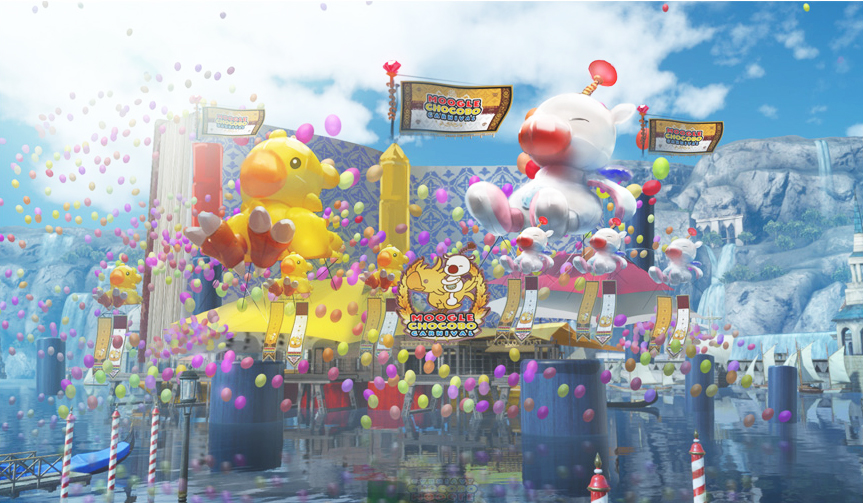
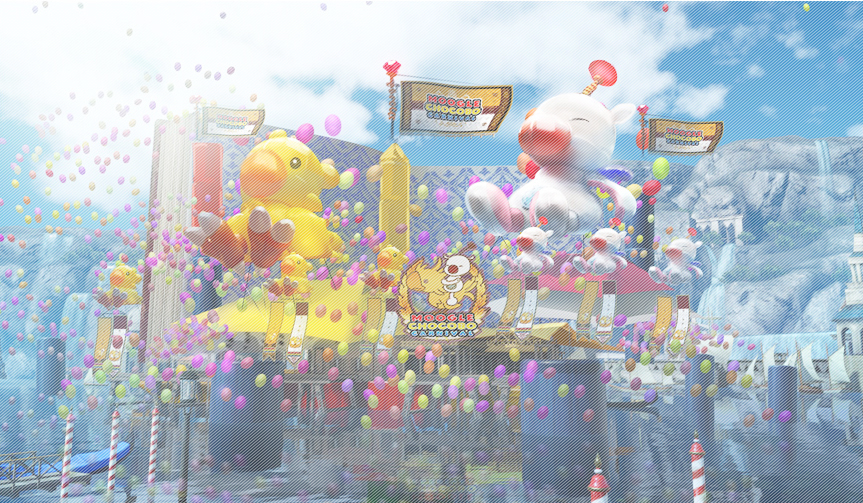
change bg

diff --git a/css/style.css b/css/style.css
@@ -6,7 +6,7 @@ body {
   background-image: url("https://edithhsu.github.io/home/Images/img_carnival.jpg");
   background-size: cover;
   background-repeat: no-repeat;
-  color: #ff6800; }
+  color: #1d86ff; }
 
 h1, h2, h3, h4, h5, h6, .h1, .h2, .h3, .h4, .h5, .h6 {
   font-weight: bold; }
@@ -24,7 +24,7 @@ nav.navbar.navbar-default.navbar-fixed-top.navbar-top {
     -o-transition: 0.5s;
     transition: 0.5s; }
     nav.navbar.navbar-default.navbar-fixed-top.navbar-top a:hover {
-      color: #ff6800; }
+      color: #1d86ff; }
 
 section {
   padding: 50px 0; }
@@ -45,7 +45,7 @@ header.jumbotron {
     color: white; }
   header.jumbotron hr {
     max-width: 50px;
-    border: solid 2px #ff6800; }
+    border: solid 2px #1d86ff; }
   header.jumbotron h4 {
     color: rgba(255, 255, 255, 0.5);
     font-weight: normal; }
@@ -54,7 +54,7 @@ header.jumbotron {
   background-color: #ffffffd4;
   width: 80%;
   padding: 30px 100px;
-  border: solid 2px #ff6800;
+  border: solid 2px #1d86ff;
   border-radius: 5px; }
   @media (max-width: 768px) {
     .background_mask {
@@ -77,7 +77,7 @@ header.jumbotron {
   width: 100%;
   height: auto;
   padding-right: 40px;
-  border-right: solid 2px #ff6800;
+  border-right: solid 2px #1d86ff;
   text-align: right;
   font-size: 30px;
   font-weight: 900; }
@@ -115,8 +115,8 @@ header.jumbotron {
         margin-right: 0; } }
     .social .item:hover {
       cursor: pointer;
-      -webkit-filter: invert(0.2) sepia(0.8) saturate(5) hue-rotate(325deg);
-      filter: invert(0.2) sepia(0.8) saturate(5) hue-rotate(325deg); }
+      -webkit-filter: invert(0.2) sepia(0.8) saturate(5) hue-rotate(175deg);
+      filter: invert(0.2) sepia(0.8) saturate(5) hue-rotate(175deg); }
     .social .item .word {
       color: #5d5d5d;
       margin-top: 60px;
@@ -166,7 +166,7 @@ header.jumbotron {
       background-position: -300px center; }
 
 section#section_ask {
-  background-color: #ff6800; }
+  background-color: #1d86ff; }
   section#section_ask .col-sm-5.img {
     background-image: url("https://edithhsu.github.io/home/Images/img_carnival.jpg");
     height: 350px;
@@ -232,4 +232,4 @@ footer.jumbotron {
     color: white; }
   footer.jumbotron hr {
     max-width: 50px;
-    border: solid 2px #ff6800; }
+    border: solid 2px #1d86ff; }

diff --git a/sass/style.sass b/sass/style.sass
@@ -1,4 +1,4 @@
-$color_orange: #ff6800
+$color_main: #1d86ff
 $screen-sm: 768px
 
 *
@@ -15,7 +15,7 @@ body
   background-image: url("https://edithhsu.github.io/home/Images/img_carnival.jpg")
   background-size: cover
   background-repeat: no-repeat
-  color: #ff6800
+  color: $color_main
   // height: 1000px
 h1,h2,h3,h4,h5,h6,.h1,.h2,.h3,.h4,.h5,.h6
   font-weight: bold
@@ -27,7 +27,7 @@ nav.navbar.navbar-default.navbar-fixed-top.navbar-top
     color: white
     transition: 0.5s
     &:hover
-      color: $color_orange
+      color: $color_main
 section
   padding: 50px 0
   .row
@@ -47,7 +47,7 @@ header.jumbotron
     color: white
   hr
     max-width: 50px
-    border: solid 2px $color_orange
+    border: solid 2px $color_main
   h4
     color: rgba(white,0.5)
     font-weight: normal
@@ -56,7 +56,7 @@ section#welcome
   background-color: #ffffffd4
   width: 80%
   padding: 30px 100px
-  border: solid 2px rgba(255, 255, 255, 0.75)
+  border: solid 2px $color_main
   border-radius: 5px
   @media (max-width: 768px)
     width: 100%
@@ -75,7 +75,7 @@ section#welcome
   width: 100%
   height: auto
   padding-right: 40px
-  border-right: solid 2px $color_orange
+  border-right: solid 2px $color_main
   text-align: right
   font-size: 30px
   font-weight: 900
@@ -107,7 +107,7 @@ section#welcome
       margin-right: 0
     &:hover
       cursor: pointer
-      filter: invert(.2) sepia(.8) saturate(5) hue-rotate(325deg)
+      filter: invert(.2) sepia(.8) saturate(5) hue-rotate(175deg)
 
     .word
       color: #5d5d5d
@@ -154,7 +154,7 @@ section#welcome
 
 // 02.section#section_ask設定
 section#section_ask
-  background-color: $color_orange
+  background-color: #1d86ff
   .col-sm-5.img
     background-image: url("https://edithhsu.github.io/home/Images/img_carnival.jpg")
     height: 350px
@@ -219,4 +219,4 @@ footer.jumbotron
     color: white
   hr
     max-width: 50px
-    border: solid 2px $color_orange
+    border: solid 2px #1d86ff
